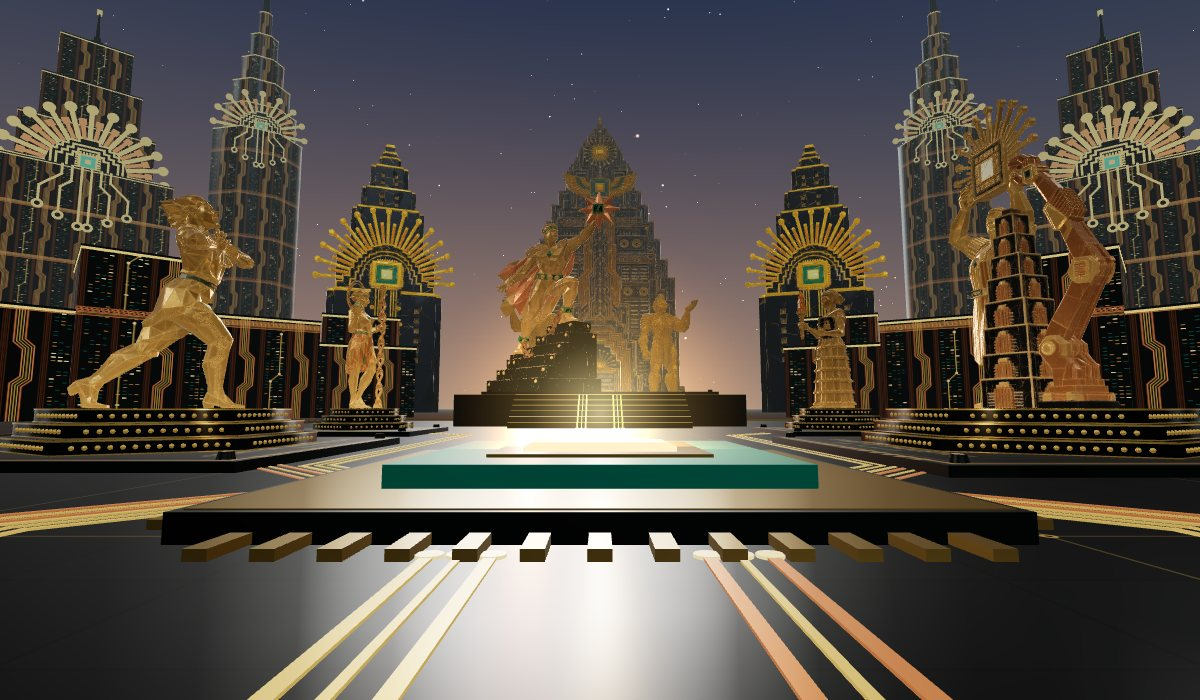
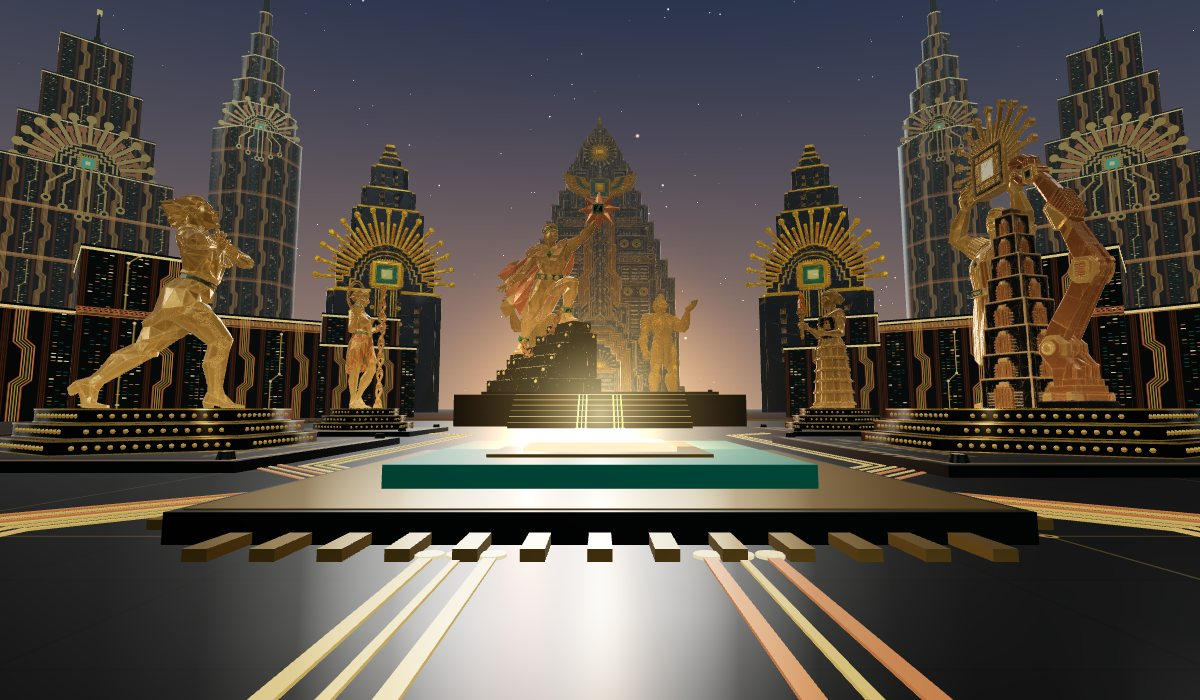
fix(city): tone the crowns down and narrow them
The crowns shared the setback light lines' unlit material and read as
neon. They are now lit gilt metal, gold and copper, with a faint glow
after dark that fades by day; only the die's core still shines, and the
dies are dimmer. They are narrower too: setback crowns reach 1.25 times
the face (was 1.6), slabs half the step's width (was 0.6), spires 1.0
(was 1.2). The Sun Towers' night glow is halved. The processor view in
the design record is reshot with the toned crowns.

diff --git a/web/src/scene/Plaza.tsx b/web/src/scene/Plaza.tsx
@@ -400,7 +400,7 @@ export type Tower = { kind: Kind; x: number; z: number; w: number; d: number; h:
   modelled?: boolean;
   /** Which model draws it, when modelled. */
   landmark?: "core" | "sun" };
-type Parts = { facade: BufferGeometry[]; glow: BufferGeometry[]; caps: BufferGeometry[]; chips: BufferGeometry[]; copper: BufferGeometry[] };
+type Parts = { facade: BufferGeometry[]; glow: BufferGeometry[]; caps: BufferGeometry[]; chips: BufferGeometry[]; copper: BufferGeometry[]; crown: BufferGeometry[] };
 
 /** Scale a box's UVs so the 16 m facade tile wraps each face at true size. */
 function facadeBox(w: number, h: number, d: number) {
@@ -428,7 +428,7 @@ function octTier(R: number, th: number) {
  * boot-sun crown) in a different massing, like a Deco skyline of siblings.
  */
 function towerGeometry(t: Tower): Parts {
-  const out: Parts = { facade: [], glow: [], caps: [], chips: [], copper: [] };
+  const out: Parts = { facade: [], glow: [], caps: [], chips: [], copper: [], crown: [] };
   // Face the plaza: local -z points at the centre.
   const yaw = Math.atan2(t.x, t.z);
   const place = (g: BufferGeometry, x: number, y: number, z: number) =>
@@ -468,8 +468,8 @@ function towerGeometry(t: Tower): Parts {
       for (let j = 0; j * s < R; j++) {
         const half = q(Math.sqrt(Math.max(0, R * R - ((j + 1) * s) ** 2)));
         for (const sx of [-1, 1]) {
-          out.glow.push(at(new BoxGeometry(s * 0.5, s, 0.4).translate(sx * prev, j * s + s / 2, 0)));
-          if (prev > half) out.glow.push(at(new BoxGeometry(prev - half + s * 0.5, s * 0.5, 0.4).translate(sx * (half + prev) / 2, (j + 1) * s, 0)));
+          out.crown.push(at(new BoxGeometry(s * 0.5, s, 0.4).translate(sx * prev, j * s + s / 2, 0)));
+          if (prev > half) out.crown.push(at(new BoxGeometry(prev - half + s * 0.5, s * 0.5, 0.4).translate(sx * (half + prev) / 2, (j + 1) * s, 0)));
         }
         prev = half;
       }
@@ -479,8 +479,8 @@ function towerGeometry(t: Tower): Parts {
     for (let i = 0; i < rays; i++) {
       const a = (i / (rays - 1)) * Math.PI;
       const [cx, cy] = [Math.cos(a), Math.sin(a)];
-      out.glow.push(at(bar(cx * r0, cy * r0, cx * r, cy * r, w, 0.4)));
-      out.glow.push(at(new CylinderGeometry(w * 1.2, w * 1.2, 0.5, 12).rotateX(Math.PI / 2).translate(cx * r, cy * r, 0), -0.05));
+      out.crown.push(at(bar(cx * r0, cy * r0, cx * r, cy * r, w, 0.4)));
+      out.crown.push(at(new CylinderGeometry(w * 1.2, w * 1.2, 0.5, 12).rotateX(Math.PI / 2).translate(cx * r, cy * r, 0), -0.05));
       if (i === rays - 1) break;
       const b = ((i + 0.5) / (rays - 1)) * Math.PI;
       const L = r * 0.78;
@@ -490,13 +490,14 @@ function towerGeometry(t: Tower): Parts {
     }
     // The die: a solder-green chip in a gold frame, a glowing core, a row of pins on three sides.
     const d = r * 0.24;
-    out.glow.push(at(new BoxGeometry(d, d, 0.5).translate(0, d / 2, 0), -0.1));
+    out.crown.push(at(new BoxGeometry(d, d, 0.5).translate(0, d / 2, 0), -0.1));
     out.chips.push(at(new BoxGeometry(d * 0.74, d * 0.74, 0.5).translate(0, d / 2, 0), -0.22));
+    // Only the die's core glows; the rest is gilt metal catching the light.
     out.glow.push(at(new BoxGeometry(d * 0.3, d * 0.3, 0.5).translate(0, d / 2, 0), -0.32));
     for (let k = 0; k < 6; k++) {
       const u = -d * 0.4 + (k * d * 0.8) / 5;
-      out.glow.push(at(new BoxGeometry(w * 0.4, d * 0.16, 0.4).translate(u, d + d * 0.08, 0), -0.1));
-      for (const sx of [-1, 1]) out.glow.push(at(new BoxGeometry(d * 0.16, w * 0.4, 0.4).translate(sx * (d / 2 + d * 0.08), d / 2 + u, 0), -0.1));
+      out.crown.push(at(new BoxGeometry(w * 0.4, d * 0.16, 0.4).translate(u, d + d * 0.08, 0), -0.1));
+      for (const sx of [-1, 1]) out.crown.push(at(new BoxGeometry(d * 0.16, w * 0.4, 0.4).translate(sx * (d / 2 + d * 0.08), d / 2 + u, 0), -0.1));
     }
     if (below === undefined) return;
     // The bus, on the face below: inner traces straight down; outer ones jog out at 45 degrees.
@@ -512,10 +513,10 @@ function towerGeometry(t: Tower): Parts {
       for (const sx of [-1, 1]) {
         for (let n = 1; n < path.length; n++) {
           const [p, q2] = [path[n - 1]!, path[n]!];
-          out.glow.push(at(bar(sx * p[0], p[1], sx * q2[0], q2[1], w * 0.5, 0.3), zb));
+          out.crown.push(at(bar(sx * p[0], p[1], sx * q2[0], q2[1], w * 0.5, 0.3), zb));
         }
         const [vx, vy] = path[path.length - 1]!;
-        out.glow.push(at(new CylinderGeometry(w * 1.1, w * 1.1, 0.4, 12).rotateX(Math.PI / 2).translate(sx * vx, vy, 0), zb - 0.05));
+        out.crown.push(at(new CylinderGeometry(w * 1.1, w * 1.1, 0.4, 12).rotateX(Math.PI / 2).translate(sx * vx, vy, 0), zb - 0.05));
         out.caps.push(at(new CylinderGeometry(w * 0.5, w * 0.5, 0.4, 10).rotateX(Math.PI / 2).translate(sx * vx, vy, 0), zb - 0.12));
       }
     }
@@ -549,7 +550,7 @@ function towerGeometry(t: Tower): Parts {
     // The crown sits on a roofline a few tiers down, on the face of the tier above it, so it reads
     // large; its rays reach up over the setbacks. Towers on the outer variant skip the bus.
     const m = spire ? 0 : Math.max(0, t.tiers - 3);
-    crown(faces[m + 1]! * (spire ? 1.2 : 1.6), tops[m]!, faces[m + 1]!, spire || t.w < 22 ? 9 : 13, t.variant === 1 ? undefined : faces[m]!);
+    crown(faces[m + 1]! * (spire ? 1.0 : 1.25), tops[m]!, faces[m + 1]!, spire || t.w < 22 ? 9 : 13, t.variant === 1 ? undefined : faces[m]!);
     if (spire) {
       out.caps.push(place(new CylinderGeometry(0.15, topR * 0.6, t.h * 0.22, 8).rotateY(Math.PI / 8), 0, y + t.h * 0.11, 0));
       out.glow.push(place(new BoxGeometry(1.2, 1.2, 1.2), 0, y + t.h * 0.22, 0));
@@ -569,7 +570,7 @@ function towerGeometry(t: Tower): Parts {
       if (k < 3) { w *= 0.74; d *= 0.92; }
     }
     // The crown on the base's roofline, on the face of the first step back, its bus down the base.
-    crown(t.w * 0.74 * 0.6, base, (t.d * 0.92) / 2, 13, t.variant === 1 ? undefined : t.d / 2);
+    crown(t.w * 0.74 * 0.5, base, (t.d * 0.92) / 2, 13, t.variant === 1 ? undefined : t.d / 2);
     mast(y, Math.min(w, d) * 0.3, t.h * 0.12);
   } else if (t.kind === "hall") {
     // A data hall: low, wide and stepped like a ziggurat, a chip on its crown.
@@ -657,6 +658,7 @@ function Skyline() {
     const caps: BufferGeometry[] = [];
     const chips: BufferGeometry[] = [];
     const copper: BufferGeometry[] = [];
+    const crown: BufferGeometry[] = [];
     for (const t of towers) {
       if (t.modelled) continue;
       const g = towerGeometry(t);
@@ -665,6 +667,7 @@ function Skyline() {
       caps.push(...g.caps);
       chips.push(...g.chips);
       copper.push(...g.copper);
+      crown.push(...g.crown);
     }
     const strip = (gs: BufferGeometry[]) => gs.map((g) => (g.index ? g.toNonIndexed() : g));
     return {
@@ -673,6 +676,7 @@ function Skyline() {
       caps: mergeGeometries(strip(caps))!,
       chips: mergeGeometries(strip(chips))!,
       copper: mergeGeometries(strip(copper))!,
+      crown: mergeGeometries(strip(crown))!,
     };
   }, []);
   const mats = useMemo(() => {
@@ -681,14 +685,17 @@ function Skyline() {
       facades: tex.map((t) => new MeshStandardMaterial({ color: "#05080a", roughness: 0.25, metalness: 0.6, emissive: "#ffffff", emissiveMap: t, emissiveIntensity: 0.85 })),
       glow: new MeshBasicMaterial({ color: new Color(C.gold).multiplyScalar(1.15) }),
       caps: new MeshStandardMaterial({ color: "#0b100e", roughness: 0.4, metalness: 0.6 }),
-      chips: new MeshBasicMaterial({ color: new Color(C.green).multiplyScalar(1.5) }),
-      copper: new MeshBasicMaterial({ color: new Color(C.copper).multiplyScalar(1.1) }),
+      chips: new MeshBasicMaterial({ color: new Color(C.green).multiplyScalar(1.05) }),
+      // The crowns are gilt bronze and copper, not light: lit metal with a faint glow after dark.
+      crown: new MeshStandardMaterial({ color: C.gold, metalness: 0.8, roughness: 0.4, emissive: C.gold, emissiveIntensity: 0.2 }),
+      copper: new MeshStandardMaterial({ color: C.copper, metalness: 0.8, roughness: 0.4, emissive: C.copper, emissiveIntensity: 0.2 }),
     };
   }, []);
   // The city's lights dim by day; its glass catches the sky instead.
   const daylight = useStore((s) => s.sky.daylight);
   useEffect(() => {
     for (const m of mats.facades) m.emissiveIntensity = 0.85 * (1 - 0.7 * daylight);
+    mats.crown.emissiveIntensity = mats.copper.emissiveIntensity = 0.2 * (1 - daylight);
   }, [mats, daylight]);
   useEffect(() => () => {
     mats.facades.forEach((m) => { m.emissiveMap?.dispose(); m.dispose(); });
@@ -696,6 +703,7 @@ function Skyline() {
     mats.caps.dispose();
     mats.chips.dispose();
     mats.copper.dispose();
+    mats.crown.dispose();
   }, [mats]);
   return (
     <group>
@@ -704,6 +712,7 @@ function Skyline() {
       <mesh geometry={meshes.caps} material={mats.caps} />
       <mesh geometry={meshes.chips} material={mats.chips} />
       <mesh geometry={meshes.copper} material={mats.copper} />
+      <mesh geometry={meshes.crown} material={mats.crown} />
     </group>
   );
 }

diff --git a/web/src/scene/SunTowers.tsx b/web/src/scene/SunTowers.tsx
@@ -46,7 +46,7 @@ export function SunTowers() {
   useEffect(() => {
     model?.traverse((o) => {
       const mat = (o as Mesh).material as MeshStandardMaterial | undefined;
-      if (mat?.emissiveMap) mat.emissiveIntensity = 0.32 * (1 - daylight);
+      if (mat?.emissiveMap) mat.emissiveIntensity = 0.16 * (1 - daylight); // half the Core's: gilt, not lit
     });
   }, [model, daylight]);
   const copies = useMemo(() => (model ? spots.map(() => model.clone()) : []), [model, spots]);

diff --git a/CHANGELOG.md b/CHANGELOG.md
@@ -30,8 +30,9 @@ and this project adheres to [Semantic Versioning](https://semver.org/spec/v2.0.0
   copper rays with square tips between them, and on two of the three facade
   variants a bus of six traces dropping down the face below, jogging at 45
   degrees into ring vias. Ray count follows the tower's size; spires carry a
-  smaller crown. Copper joins the city's materials; still a handful of draw
-  calls.
+  smaller crown. The crowns are lit gilt metal with a faint glow after dark,
+  not light; only the die's core shines. Copper joins the city's materials;
+  still a handful of draw calls.
 
 ### Changed
 
